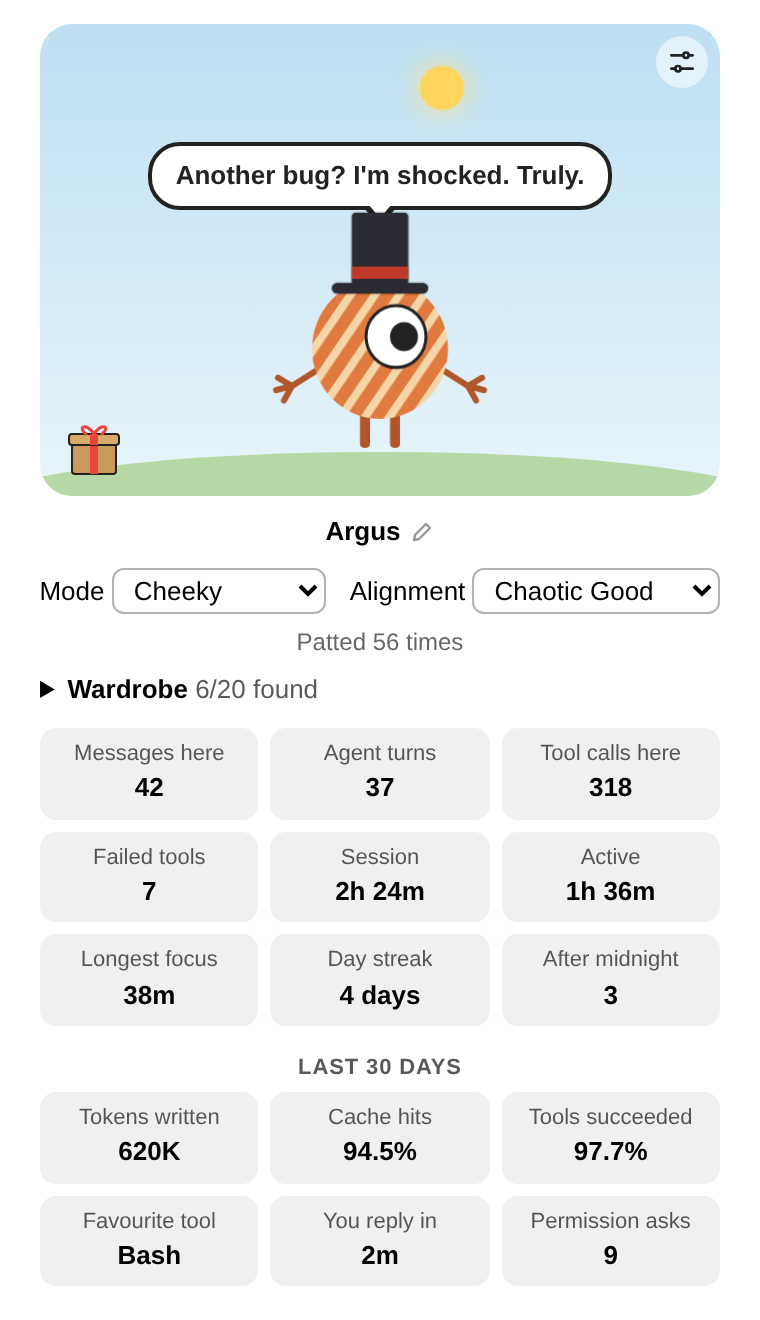
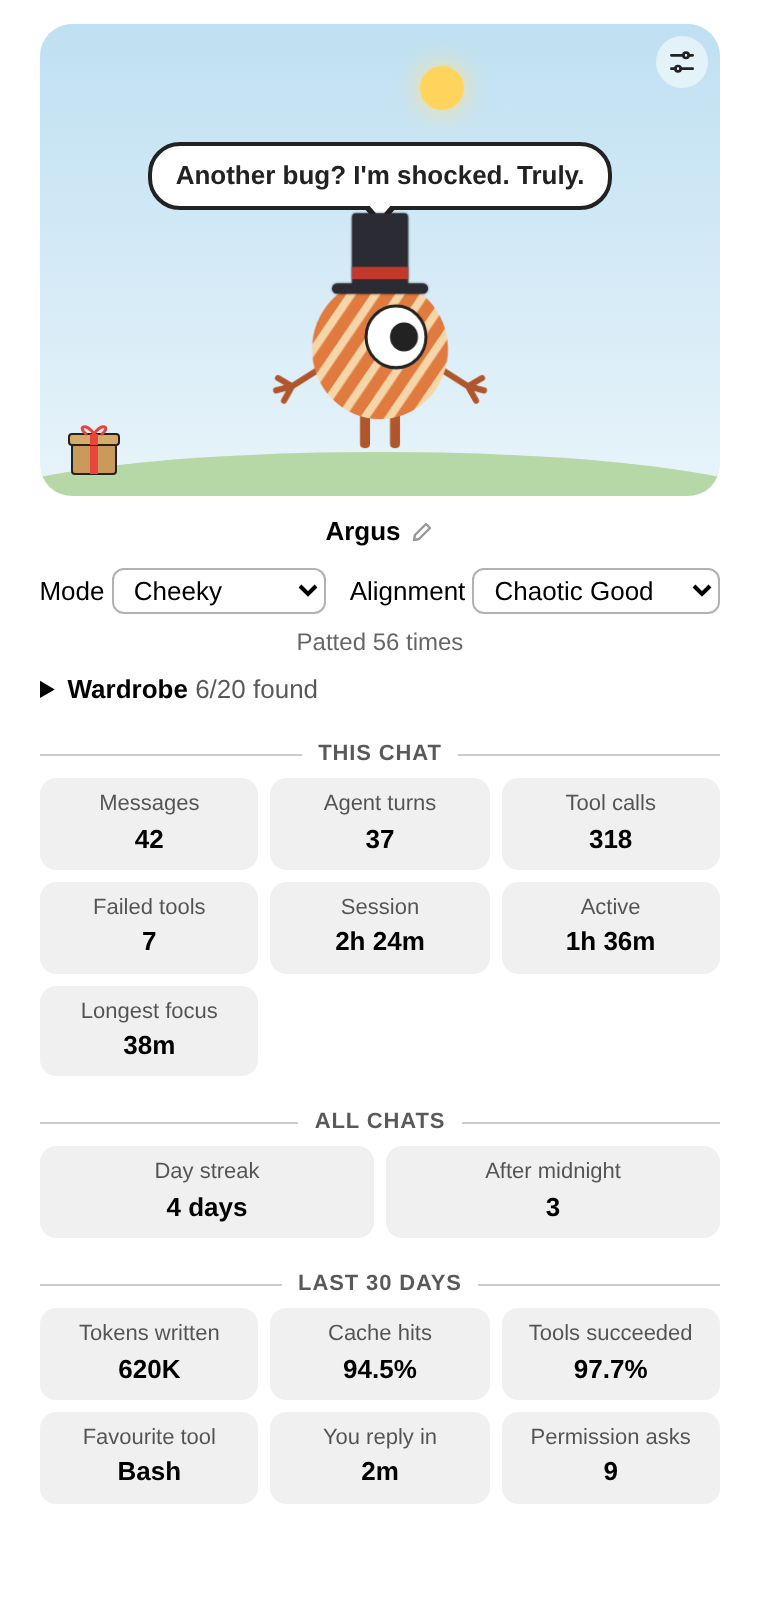
The pet's stats are grouped into this chat, all chats and the last 30 days, which now show even without mirador on the PATH

diff --git a/view.js b/view.js
@@ -222,8 +222,10 @@ style.textContent = `
   .naming .name:hover svg, .naming .name:focus-visible svg { opacity: 0.9; }
   .naming .name[hidden], .name-field[hidden] { display: none; }
   .name-field { width: 170px; padding: 1px 6px; font: inherit; font-weight: 600; text-align: center; user-select: text; border-radius: 6px; border: 1px solid color-mix(in srgb, CanvasText 40%, transparent); background: Canvas; color: inherit; }
-  .usage { width: 100%; max-width: 340px; }
-  .usage h4 { margin: 8px 0 0; font-size: 11px; font-weight: 600; opacity: 0.65; text-transform: uppercase; letter-spacing: 0.04em; text-align: center; }
+  .stat-group { width: 100%; max-width: 340px; margin-top: 4px; }
+  .stat-group[hidden] { display: none; }
+  .stat-group h4 { display: flex; align-items: center; gap: 8px; margin: 6px 0 0; font-size: 11px; font-weight: 600; color: color-mix(in srgb, CanvasText 65%, transparent); text-transform: uppercase; letter-spacing: 0.04em; white-space: nowrap; }
+  .stat-group h4::before, .stat-group h4::after { content: ""; flex: 1; height: 1px; background: color-mix(in srgb, CanvasText 20%, transparent); }
   .scene.raining { background: linear-gradient(#77838f, #a9b3bb); }
   .scene.dawn.raining, .scene.dusk.raining { background: linear-gradient(#6d6a80, #a39aa3); }
   .scene.night.raining { background: linear-gradient(#12172b, #232b47); }
@@ -370,8 +372,9 @@ root.innerHTML = `
       <h4>Hat skin</h4><div class="tiles hat-skins"></div>
       <h4>Body skin</h4><div class="tiles body-skins"></div>
     </details>
-    <dl class="stats here"></dl>
-    <section class="usage" hidden><h4>Last 30 days</h4><dl class="stats month"></dl></section>
+    <section class="stat-group this-chat" hidden><h4>This chat</h4><dl class="stats here"></dl></section>
+    <section class="stat-group all-chats" hidden><h4>All chats</h4><dl class="stats everywhere"></dl></section>
+    <section class="stat-group usage" hidden><h4>Last 30 days</h4><dl class="stats month"></dl></section>
   </div>
   <dialog class="model-dialog" aria-labelledby="model-title">
     <form method="dialog">
@@ -577,19 +580,22 @@ function drawUsage() {
 
 function drawStats() {
   const stats = shownStats;
-  if (!stats) return part(".here").replaceChildren();
-  const rows = [
-    ["Messages here", String(stats.messages)],
+  part(".this-chat").hidden = !stats;
+  part(".all-chats").hidden = !stats;
+  if (!stats) return;
+  part(".here").replaceChildren(...statTiles([
+    ["Messages", String(stats.messages)],
     ["Agent turns", String(stats.turns ?? 0)],
-    ["Tool calls here", String(stats.toolCalls ?? 0)],
+    ["Tool calls", String(stats.toolCalls ?? 0)],
     ["Failed tools", String(stats.failedTools ?? 0)],
     ["Session", stats.firstAt === null ? "–" : duration(Date.now() - stats.firstAt)],
     ["Active", duration(stats.activeMs)],
     ["Longest focus", duration(stats.longestStreakMs)],
+  ]));
+  part(".everywhere").replaceChildren(...statTiles([
     ["Day streak", `${stats.dayStreak} ${stats.dayStreak === 1 ? "day" : "days"}`],
     ["After midnight", String(stats.nightOwl)],
-  ];
-  part(".here").replaceChildren(...statTiles(rows));
+  ]));
 }
 
 setInterval(() => (drawStats(), drawSky()), STATS_TICK_MS);

diff --git a/usage.ts b/usage.ts
@@ -1,4 +1,6 @@
 import { execFile } from "node:child_process";
+import { existsSync } from "node:fs";
+import { dirname, join, resolve } from "node:path";
 
 /** What the pet shows of Mirador's usage report: numbers and a tool's name only, as the report also quotes what the user typed. */
 export interface UsageNumbers {
@@ -10,7 +12,6 @@ export interface UsageNumbers {
   permissionPrompts: number;
 }
 
-const COMMAND = "mirador";
 const ARGUMENTS = ["usage", "--json", "--since", "30d"];
 const TIMEOUT_MS = 15_000;
 const LARGEST_REPORT_BYTES = 64 * 1024 * 1024;
@@ -40,12 +41,28 @@ export function usageNumbers(report: unknown): UsageNumbers | null {
   };
 }
 
-const runCommand = () =>
-  new Promise<string>((resolve, reject) => {
-    execFile(COMMAND, ARGUMENTS, { timeout: TIMEOUT_MS, maxBuffer: LARGEST_REPORT_BYTES }, (error, stdout) => (error ? reject(error) : resolve(stdout)));
+/**
+ * Where the command is: beside the Mirador this plugin runs in, whose host/main.ts is the running script, else on the PATH.
+ * The host's own PATH often lacks it, as Mirador only adds its bin folder for its agents, and Bun too, so it gets the host's.
+ */
+export function usageCommands(runningScript = process.argv[1], exists: (file: string) => boolean = existsSync): string[] {
+  const beside = runningScript ? join(dirname(resolve(runningScript)), "..", "bin", "mirador") : null;
+  return beside && exists(beside) ? [beside, "mirador"] : ["mirador"];
+}
+
+const runOne = (command: string) =>
+  new Promise<string>((done, failed) => {
+    execFile(command, ARGUMENTS, { env: { ...process.env, MIRADOR_BUN: process.execPath }, timeout: TIMEOUT_MS, maxBuffer: LARGEST_REPORT_BYTES }, (error, stdout) => (error ? failed(error) : done(stdout)));
   });
 
-/** The last 30 days' numbers, or null when the command isn't on the PATH or fails: the pet then just doesn't show them. */
+async function runCommand(): Promise<string> {
+  const [first, ...others] = usageCommands();
+  let attempt = runOne(first!);
+  for (const command of others) attempt = attempt.catch(() => runOne(command));
+  return attempt;
+}
+
+/** The last 30 days' numbers, or null when the command can't be found or fails: the pet then just doesn't show them. */
 export async function readUsage(run: () => Promise<string> = runCommand): Promise<UsageNumbers | null> {
   try {
     return usageNumbers(JSON.parse(await run()));

diff --git a/tests/usage.test.ts b/tests/usage.test.ts
@@ -1,5 +1,5 @@
 import { describe, expect, test } from "bun:test";
-import { readUsage, toolName, usageFacts, usageNumbers } from "../usage.ts";
+import { readUsage, toolName, usageCommands, usageFacts, usageNumbers } from "../usage.ts";
 
 const report = {
   totals: { inputTokens: 100, outputTokens: 5000, cachedReadTokens: 700, cachedWriteTokens: 200, successPercent: 97.8, medianReplySeconds: 42, permissionPrompts: 3 },
@@ -34,6 +34,15 @@ describe("the usage report", () => {
     expect(await readUsage(() => Promise.reject(new Error("not found")))).toBeNull();
     expect(await readUsage(() => Promise.resolve("not json"))).toBeNull();
     expect(await readUsage(() => Promise.resolve(JSON.stringify(report)))).toMatchObject({ favouriteTool: "ask" });
+  });
+
+  test("the command beside the running host comes before the one on the PATH", () => {
+    expect(usageCommands("/opt/mirador/host/main.ts", () => true)).toEqual(["/opt/mirador/bin/mirador", "mirador"]);
+  });
+
+  test("without a command beside the host, the PATH is all there is", () => {
+    expect(usageCommands("/opt/app/main.js", () => false)).toEqual(["mirador"]);
+    expect(usageCommands("", () => true)).toEqual(["mirador"]);
   });
 
   test("tool names read as people call them", () => {

diff --git a/README.md b/README.md
@@ -60,21 +60,28 @@ Each request sets `chat_template_kwargs: { enable_thinking: false }`, because re
 
 Counted from the day you install it, in every conversation, whether or not Argus is open.
 
+**This chat**
+
 | Tile | What it counts |
 | --- | --- |
-| Messages here | Messages you sent in this conversation |
-| Agent turns | The agent's turns in this conversation |
-| Tool calls here | The agent's finished tool calls in this conversation |
+| Messages | Messages you sent |
+| Agent turns | The agent's turns |
+| Tool calls | The agent's finished tool calls |
 | Failed tools | How many of those failed |
-| Session | Time since your first message in this conversation |
+| Session | Time since your first message |
 | Active | Time between messages sent less than 10 minutes apart |
 | Longest focus | The longest run of messages without a longer gap |
-| Day streak | Days in a row with a message, in any conversation |
-| After midnight | Messages sent between midnight and 5 am, in any conversation |
+
+**All chats**
+
+| Tile | What it counts |
+| --- | --- |
+| Day streak | Days in a row with a message |
+| After midnight | Messages sent between midnight and 5 am |
 
 ### Last 30 days
 
-If the `mirador` command is on the PATH of Mirador's host, Argus runs `mirador usage --json --since 30d` in the background, at most every 10 minutes, and shows tokens written, cache hits, tools succeeded, your favourite tool, how quickly you usually reply and permission prompts. Without the command, this group doesn't appear.
+Argus runs `mirador usage --json --since 30d` in the background, at most every 10 minutes, using the command beside the running Mirador, or else the one on the PATH. It shows tokens written, cache hits, tools succeeded, your favourite tool, how quickly you usually reply and permission prompts, across all chats. If the command can't be found or fails, this group doesn't appear.
 
 ### Failures and rain
 
